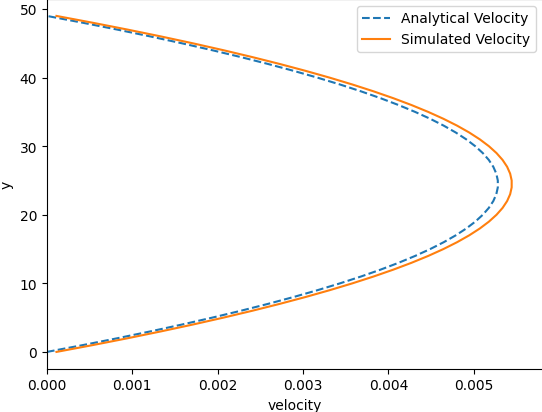
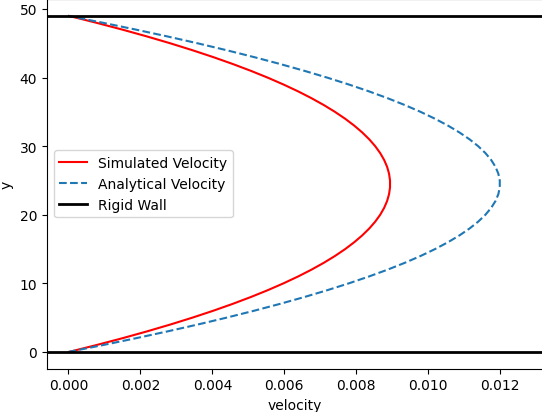
add code

diff --git a/visualisation/plot.py b/visualisation/plot.py
@@ -144,15 +144,16 @@ class PoiseuilleFlowPlotter(Plotter):
         partial_derivative = CS**2 *(self.pressure_out - self.pressure_in) / self.nx # partial derivative of pressure
         analytical = -((1 / avg_density) * partial_derivative * self.y * (self.ny-1 - self.y)) # analytical velocity
         
-        self.ax.set_xlim([0, np.max(analytical) * 1.1])
+        self.ax.set_xlim([0 - (np.max(analytical) * 1.05 - np.max(analytical)), np.max(analytical) * 1.1])
+        self.ax.plot(velocities[0, self.nx//2, :], self.y, label="Simulated Velocity", c='red')
         self.ax.plot(analytical, self.y, linestyle='dashed', label="Analytical Velocity")
-        self.ax.plot(velocities[0, self.nx//2, :], self.y, label="Simulated Velocity")
         self.ax.set_ylabel('y')
         self.ax.set_xlabel('velocity')
         # plot walls
-        self.ax.axhline(0, c='black', linewidth=3.5, label="Rigid Wall")  # indicate rigid bottom wall
-        self.ax.axhline(self.ny-1, c='black', linewidth=3.5)  # indicate rigid bottom wall
-        self.ax.legend()
+        self.ax.axhline(0, c='black', linewidth=2, label="Rigid Wall")  # indicate rigid bottom wall
+        self.ax.axhline(self.ny-1, c='black', linewidth=2)  # indicate rigid bottom wall
+        if(step == 0):
+            self.ax.legend()
         save_path = os.path.join(self.path, f'pousielle_flow_{step}')
         self.fig.savefig(save_path, bbox_inches='tight', pad_inches=0)
 

diff --git a/main.py b/main.py
@@ -91,8 +91,8 @@ couette_flow_parser.add_argument('-wv', '--wall_velocity', type=float, help='Vel
 couette_flow_parser.set_defaults(func=run_couette_flow_sim)
 
 poiseuille_flow_parser = sub_parser.add_parser('poiseuille_flow', help='poiseuille_flow help')
-poiseuille_flow_parser.add_argument('-o', '--omega', type=float, help='Omega', default=0.3)
-poiseuille_flow_parser.add_argument('-pi', '--pressure_in', type=float, default=1.005, help='Pressure on the left')
+poiseuille_flow_parser.add_argument('-o', '--omega', type=float, help='Omega', default=1.0)
+poiseuille_flow_parser.add_argument('-pi', '--pressure_in', type=float, default=1.002, help='Pressure on the left')
 poiseuille_flow_parser.add_argument('-po', '--pressure_out', type=float, default=1.0, help='Pressure on the right')
 poiseuille_flow_parser.set_defaults(func=run_poiseuille_flow_sim)
     
